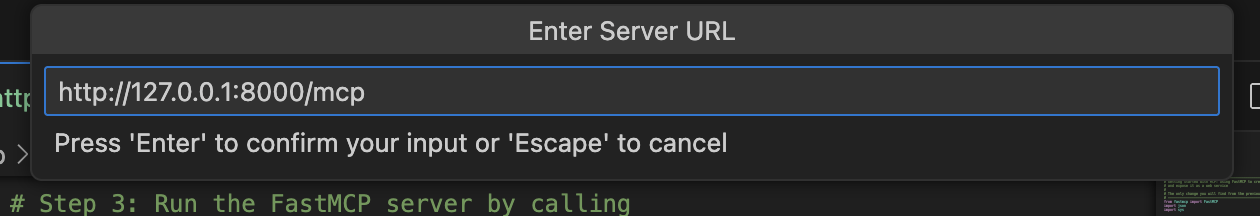
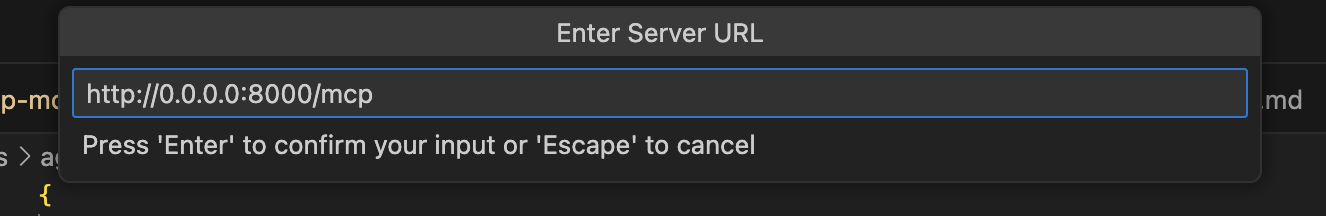
New MCP tutorials

diff --git a/14_mcp/02_http-mcp-server-fastmcp.py b/14_mcp/02_http-mcp-server-fastmcp.py
@@ -97,12 +97,16 @@ def get_last_build(product_name, branch_name):
 
 # ----------------------------------------------
 # Step 3: Configure the MCP server to run 
-# as a web service on http://127.0.0.1:8000/mcp
+# as a web service on http://0.0.0.0:8000/mcp
+#
+# Difference between 0.0.0.0 and 127.0.0.1
+# - 127.0.0.1: hosted webservice will be accessible only from the host machine.
+# - 0.0.0.0: Hosted webservice will be accessible even from the outside the host machine.
 # ----------------------------------------------
 if __name__ == "__main__":
     try:
         print("\n\n==== Starting MCP server =====")
-        mcp.run(transport="http", host="127.0.0.1", port=8000, path="/mcp")
+        mcp.run(transport="http", host="0.0.0.0", port=8000, path="/mcp")
     except KeyboardInterrupt:
         print("[DEBUG] Server shutting down gracefully")
     except Exception as e:
@@ -114,7 +118,7 @@ if __name__ == "__main__":
 # Step 4: Test the script to script to start the server
 # Run this python file. You should see the message:
 #
-# Starting MCP server 'build-server-http' with transport 'http' on http://127.0.0.1:8000/mcp
+# Starting MCP server 'build-server-http' with transport 'http' on http://0.0.0.0:8000/mcp
 #
 # Check the screenshots in `screenshots/02_http-mcp-server-fastmcp`
 # to learn how to add this server to VSCode Copilot

diff --git a/14_mcp/03_run_with_docker.md b/14_mcp/03_run_with_docker.md
@@ -1,0 +1,45 @@
+
+# MCP Server with Docker
+
+Demonstrating how to containerize an MCP server using Docker.
+
+## Prerequisites
+
+Docker installed and running on your system
+
+## Files
+
+- `02_http-mcp-server-fastmcp.py`: The MCP server implementation
+- `requirements.txt`: Python dependencies for the mcp server
+- `Dockerfile`: Instructions for building the Docker image
+
+## Running with Docker
+
+### Step 1: Build the Docker image
+
+```bash
+docker build -t build-server-http:latest .
+```
+
+### Step 2: Run the Docker container
+
+```bash
+docker run -p 8000:8000 build-server-http:latest
+```
+This will start the MCP server inside a Docker container and expose it on port 8000.
+
+Open your browser and navigate to `http://localhost:8000/mcp` and check if you are getting any response.
+
+### Troubleshooting
+
+If you encounter connection issues:
+
+1. **Check if the server is running**: Make sure the Docker container is running with `docker ps`.
+
+2. **Verify port mapping**: Ensure the port is correctly mapped with `docker ps` or by checking the output of the `docker run` command.
+
+3. **Check server logs**: View the server logs with `docker logs <container_id>` to see if there are any errors.
+
+4. **Host binding**: The server is configured to bind to `0.0.0.0` instead of `127.0.0.1` to make it accessible from outside the container. If you're still having issues, you might need to check your firewall settings.
+
+5. **Network issues**: If you're running Docker on a remote machine, make sure the port is accessible from your client machine.

diff --git a/14_mcp/README.md b/14_mcp/README.md
@@ -91,6 +91,8 @@ To add an MCP server to an AI assistant, you’ll need to create a `mcp.json` fi
 
 Refer to your AI assistant’s documentation to determine the correct location for placing the `mcp.json` file.
 
+Copilot Doc: https://code.visualstudio.com/docs/copilot/customization/mcp-servers
+
 <table>
 <tr>
 <td> MCP Server File </td> 
@@ -134,6 +136,43 @@ Refer to your AI assistant’s documentation to determine the correct location f
     <ul>
         <li>Provide absolute paths in `command` and `args`</li>
         <li>Use the python from your virtual environment in `command`</li>
+    </ul>
+</td>
+</tr>
+<tr>
+<td>02_http-mcp-server-fastmcp.py</td>
+<td>
+
+
+```json
+{
+	"servers": {
+		"build-server-http": {
+			"url": "http://0.0.0.0:8000/mcp",
+			"type": "http"
+		}
+	}
+}
+```
+
+</td>
+<td>
+
+```json
+{
+	"mcpServers": {
+		"build-server-http": {
+			"url": "http://0.0.0.0:8000/mcp",
+			"type": "http"
+		}
+	}
+}
+```
+
+</td>
+<td>
+    <ul>
+        <li>Make sure the server is running</li>
     </ul>
 </td>
 </tr>
